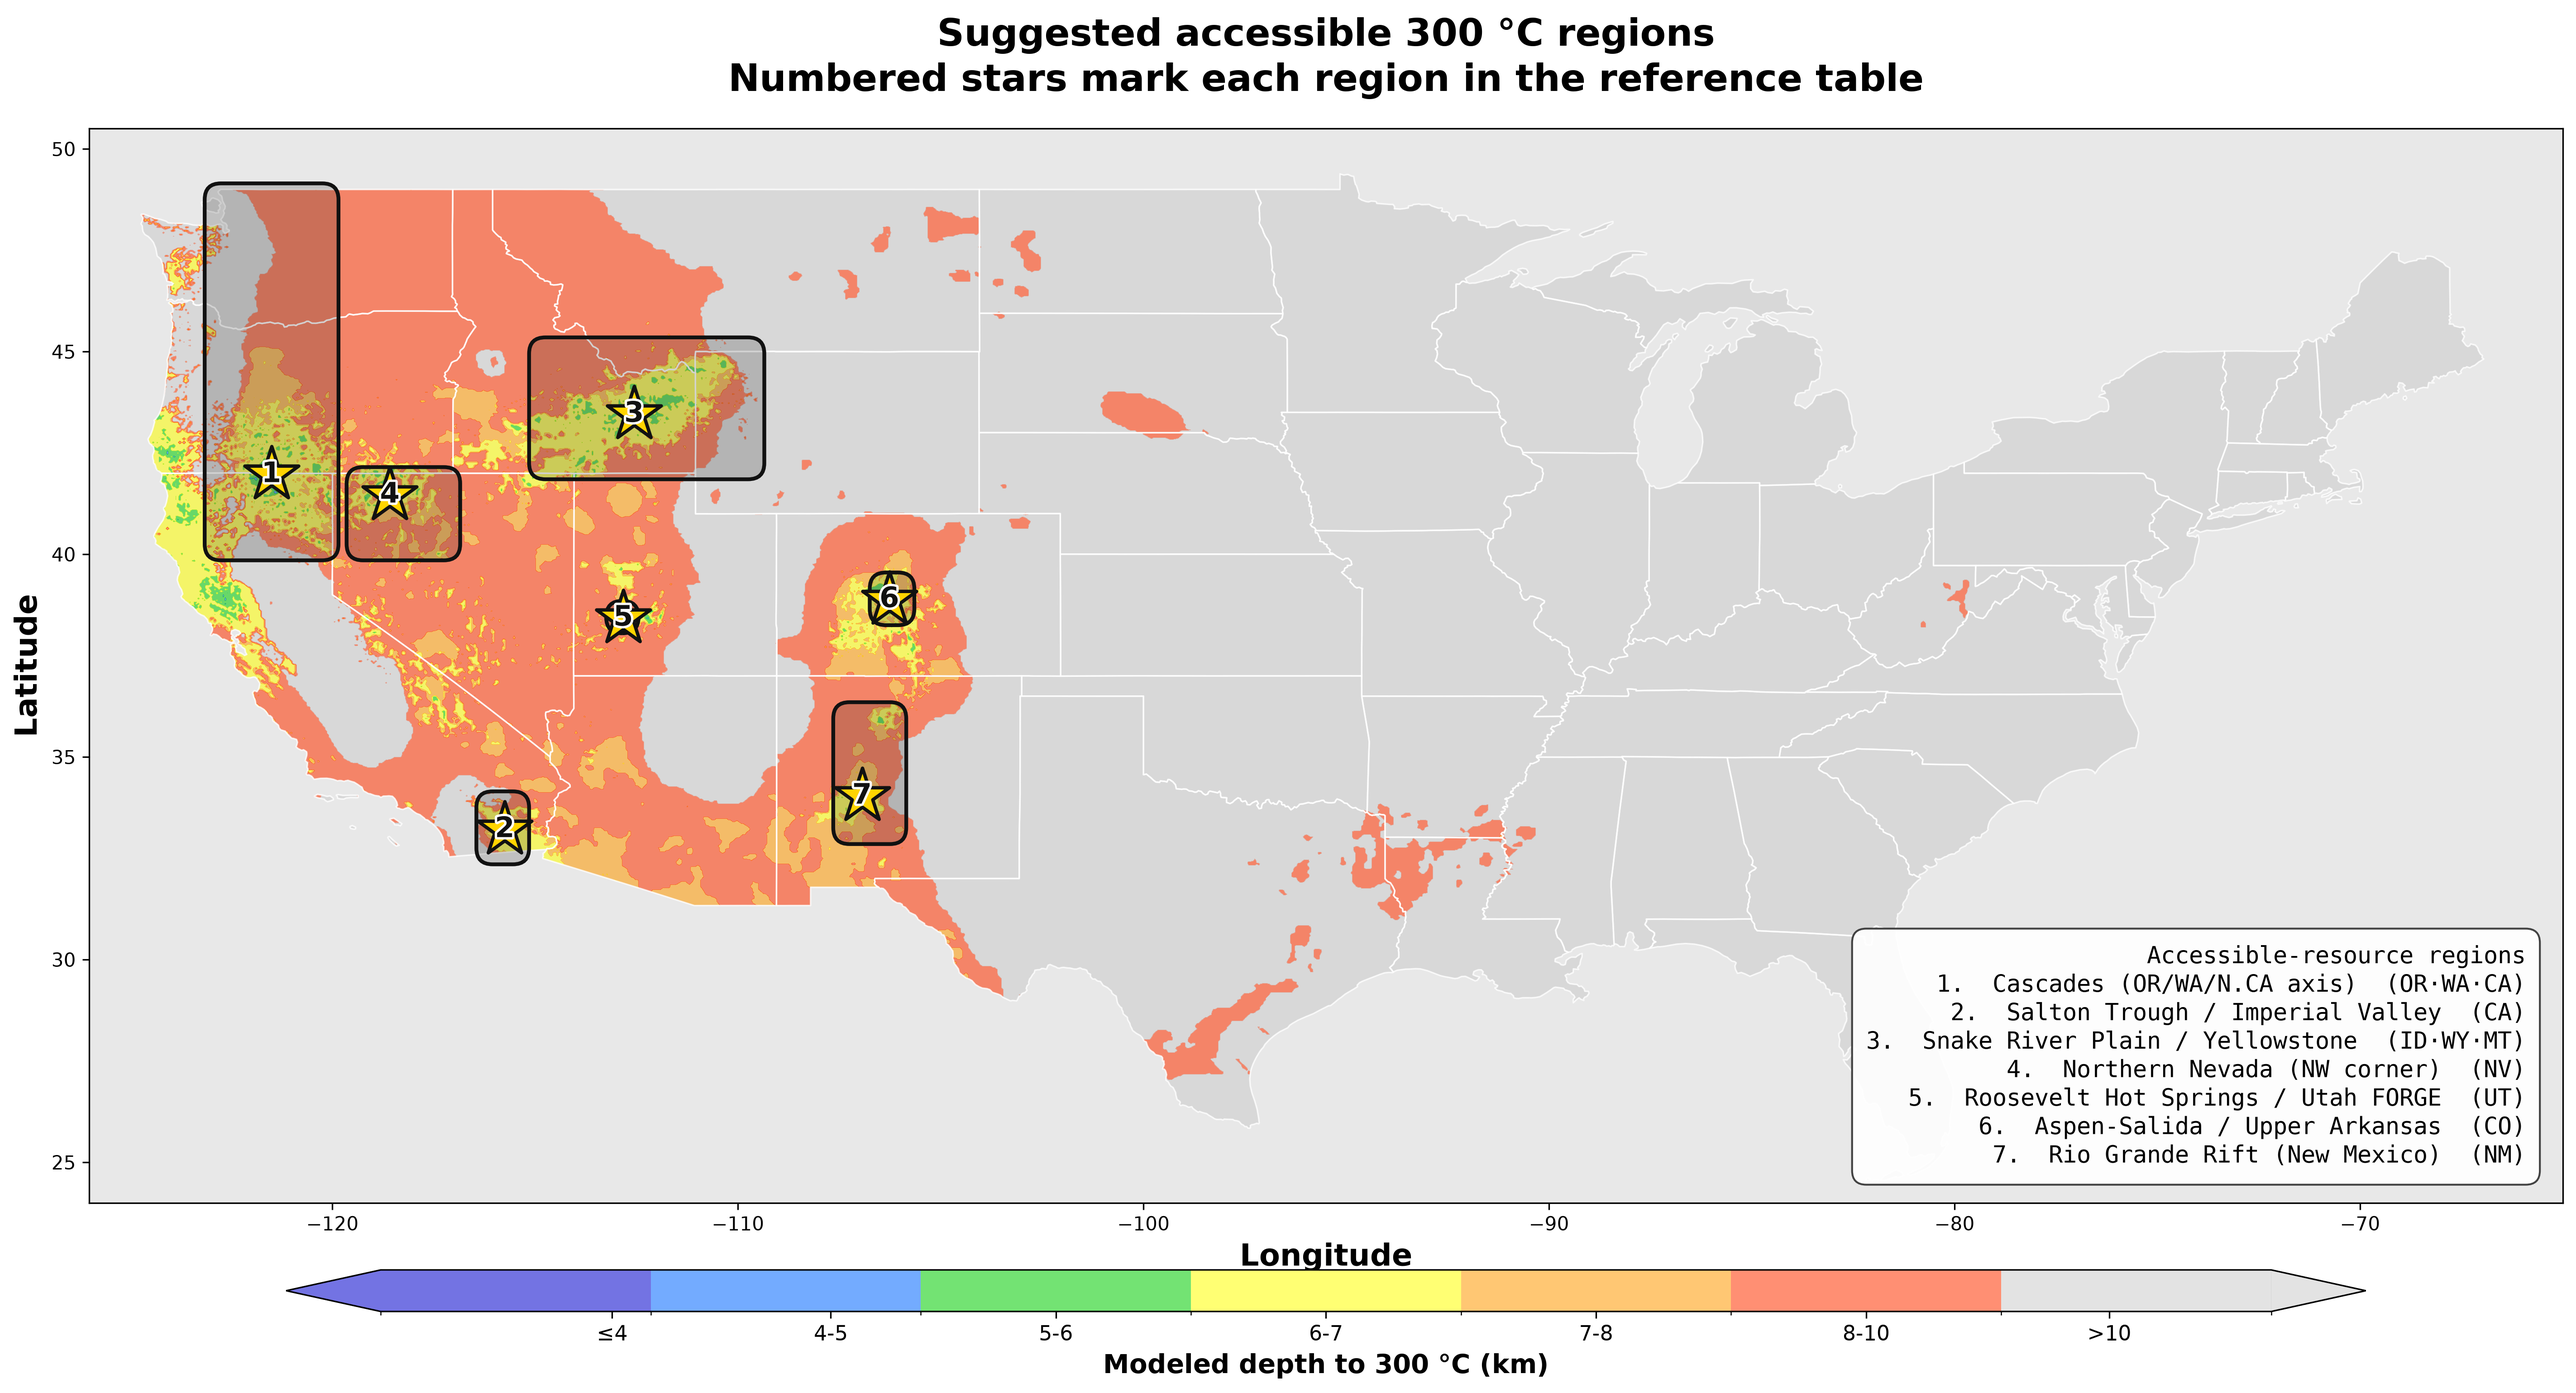
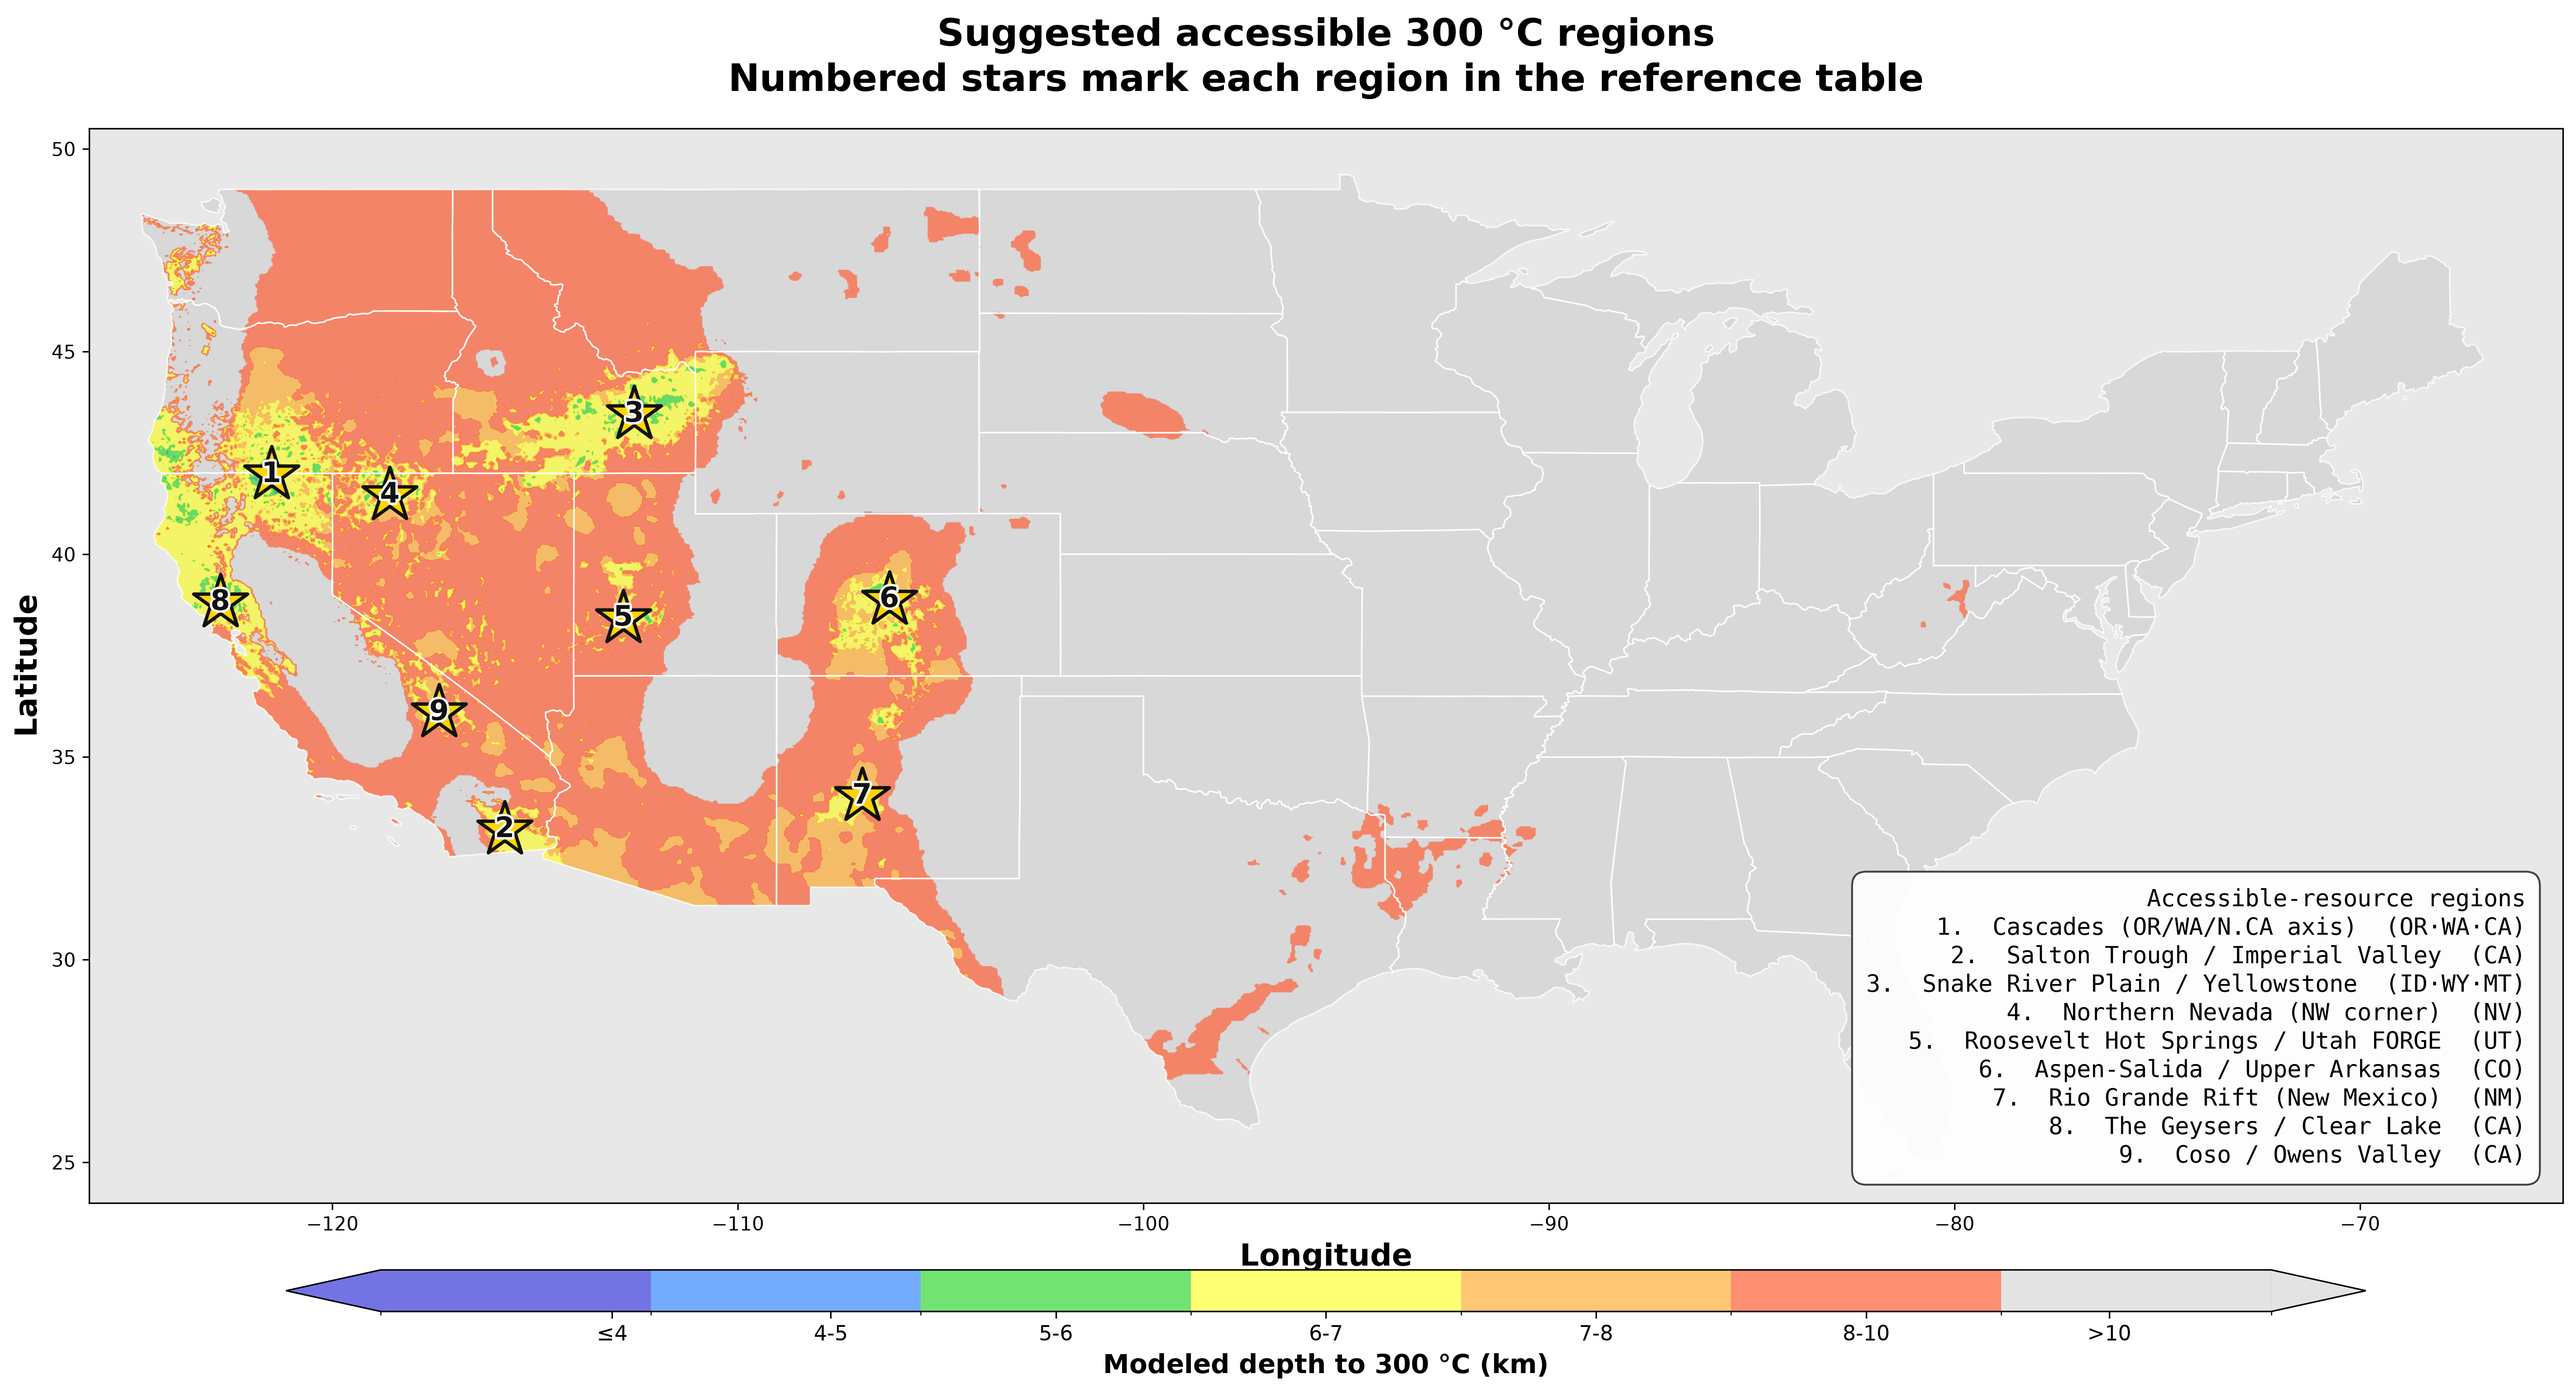
Drop region boxes; add The Geysers and Coso from a shallow-cluster scan
Remove the bounding-box overlays from the region map (a lat/lon rectangle
over/under-covers a region's true footprint) and keep only the numbered
stars; the depth field itself shows extent.

A CONUS-wide connected-components scan of the 2,770 cells reaching 300 C
within 6 km surfaced two coherent clusters the curated list had missed:
The Geysers / Clear Lake (222 shallow cells, shallower than every listed
region but Cascades and Yellowstone; a naive raster had merged it into the
Cascades blob) and Coso / Owens Valley (28 cells, an operating field).
Both are appended as regions 8-9 (existing 1-7 numbering unchanged) and are
computed from the grid like the rest. Sub-threshold clusters (NE Nevada,
San Juans, Mono) were left off. README table and caption updated to match.

diff --git a/build_region_map.py b/build_region_map.py
@@ -16,7 +16,7 @@ import matplotlib.pyplot as plt
 import matplotlib.patheffects as pe
 from matplotlib.colors import ListedColormap, BoundaryNorm
 from matplotlib.path import Path
-from matplotlib.patches import PathPatch, FancyBboxPatch
+from matplotlib.patches import PathPatch
 from scipy.interpolate import griddata
 
 from build_reference_tables import REGIONS, build_reference
@@ -64,21 +64,12 @@ for coll in ax.collections:
 
 states.boundary.plot(ax=ax, linewidth=0.8, edgecolor="white", alpha=0.8, zorder=5)
 
-# --- region blobs + numbered stars ------------------------------------------
+# --- numbered stars ---------------------------------------------------------
+# Stars only: bounding boxes were removed because a lat/lon rectangle does not
+# reflect a region's true data footprint (it over-covers empty ground and
+# under-covers coherent clusters). The star marks the representative location;
+# the depth field itself shows the extent.
 for i, (name, typ, st, (la0, la1, lo0, lo1), setting) in enumerate(REGIONS, start=1):
-    # translucent blob over the region's bounding box (rounded corners)
-    blob = FancyBboxPatch(
-        (lo0, la0), lo1 - lo0, la1 - la0,
-        boxstyle="round,pad=0.15,rounding_size=0.4",
-        linewidth=2.0, edgecolor="#111111", facecolor="#111111",
-        alpha=0.18, zorder=8, mutation_aspect=1.0,
-    )
-    ax.add_patch(blob)
-    ax.add_patch(FancyBboxPatch(
-        (lo0, la0), lo1 - lo0, la1 - la0,
-        boxstyle="round,pad=0.15,rounding_size=0.4",
-        linewidth=2.0, edgecolor="#111111", facecolor="none", zorder=9))
-
     rlat = float(ref.loc[i - 1, "rep_lat"])
     rlon = float(ref.loc[i - 1, "rep_lon"])
     ax.scatter(rlon, rlat, marker="*", s=900, c="#FFD400",

diff --git a/build_reference_tables.py b/build_reference_tables.py
@@ -43,6 +43,13 @@ REGIONS = [
     ("Rio Grande Rift (New Mexico)", "geothermal region", "NM",
      (33.0, 36.2, -107.5, -106.0),
      "Extensional rift; Valles/Jemez, Socorro, Rio Grande corridor."),
+    ("The Geysers / Clear Lake", "geothermal region", "CA",
+     (38.4, 39.2, -123.2, -122.4),
+     "Clear Lake volcanic field; world's largest operating geothermal complex. "
+     "Shallowest CA cells outside the Salton Trough."),
+    ("Coso / Owens Valley", "geothermal region", "CA",
+     (35.8, 36.6, -117.8, -117.0),
+     "Coso Volcanic Field on the eastern Sierra front; operating flash-steam field at China Lake."),
 ]
 
 

diff --git a/README.md b/README.md
@@ -48,7 +48,7 @@ with the shallowest cell in parentheses; coordinates are the median location of 
 ![Numbered map of the suggested accessible-resource regions](plots/accessible_regions_map.png)
 
 *Each numbered star marks the representative location of the correspondingly numbered region
-below; the shaded blob covers its approximate extent.*
+below; the depth field itself shows each region's extent.*
 
 | # | Region / site | State(s) | Rep. lat, lon | Depth to 300 °C | Cells ≤6 / ≤7 / ≤10 km | Coherence | Setting |
 |---:|---|---|---|---:|---:|---|---|
@@ -59,6 +59,8 @@ below; the shaded blob covers its approximate extent.*
 | **5** | **Roosevelt Hot Springs / Utah FORGE** | UT | 38.42, −112.83 | 6.2 km (min 4.1) | 54 / 139 / 168 | compact, coherent | DOE EGS field site; small, well-characterized shallow anomaly |
 | **6** | **Aspen–Salida / Upper Arkansas** | CO | 38.88, −106.26 | 6.4 km (min 5.3) | 87 / 351 / 504 | coherent cluster | Northern reach of the Rio Grande rift; densest shallow cluster in the interior Rockies |
 | **7** | **Rio Grande Rift** (New Mexico) | NM | 34.03, −106.94 | 6.6 km (min 4.4) | 44 / 579 / 2,757 | large coherent zone | Extensional rift; Valles/Jemez, Socorro, Rio Grande corridor |
+| **8** | **The Geysers / Clear Lake** | CA | 38.81, −122.76 | 6.0 km (min 4.4) | 222 / 411 / 413 | dense, coherent zone | Clear Lake volcanic field; world's largest operating geothermal complex — shallowest CA cells outside the Salton Trough |
+| **9** | **Coso / Owens Valley** | CA | 36.09, −117.37 | 6.5 km (min 5.0) | 28 / 149 / 396 | coherent cluster | Coso Volcanic Field on the eastern Sierra front; operating flash-steam field at China Lake |
 
 *Cell counts are grid cells inside each region's bounding box reaching 300 °C within 6, 7 and
 10 km. The boxes are geographic and do not tile CONUS, so they are subsets of — and won't sum
